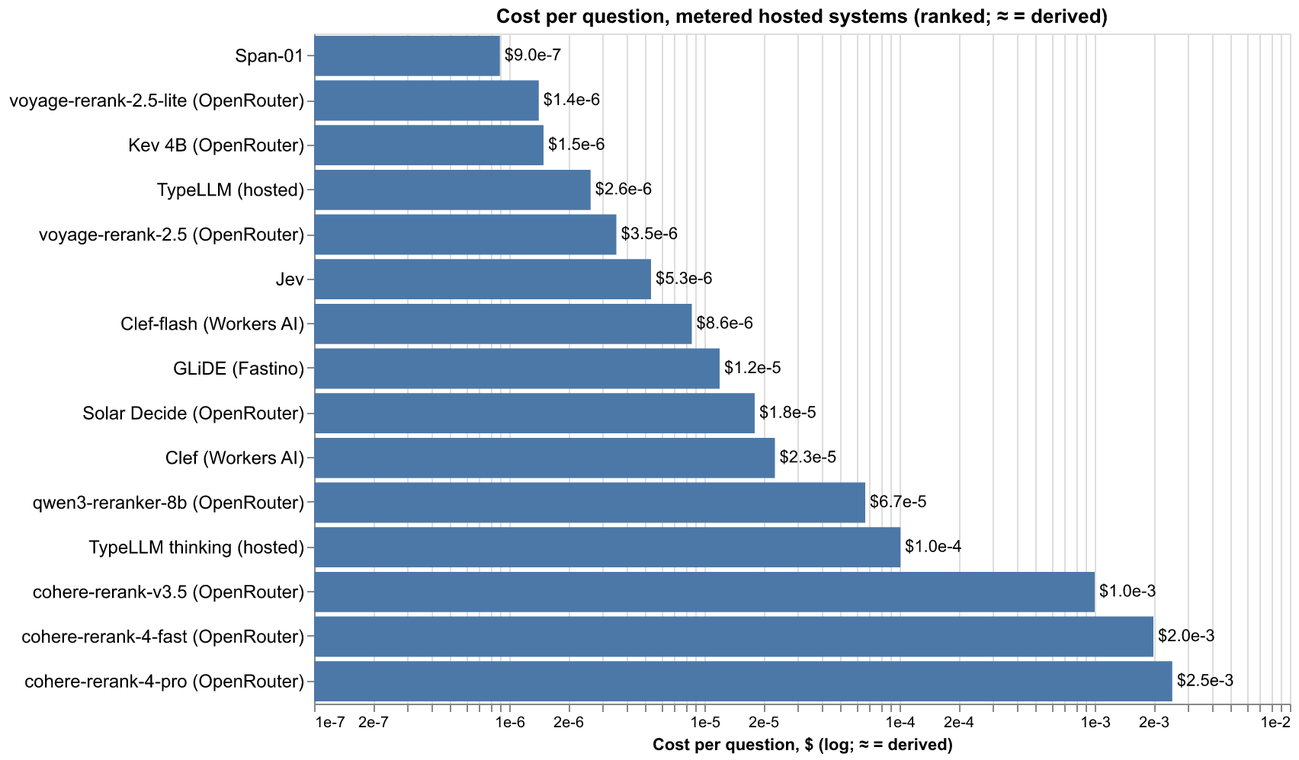
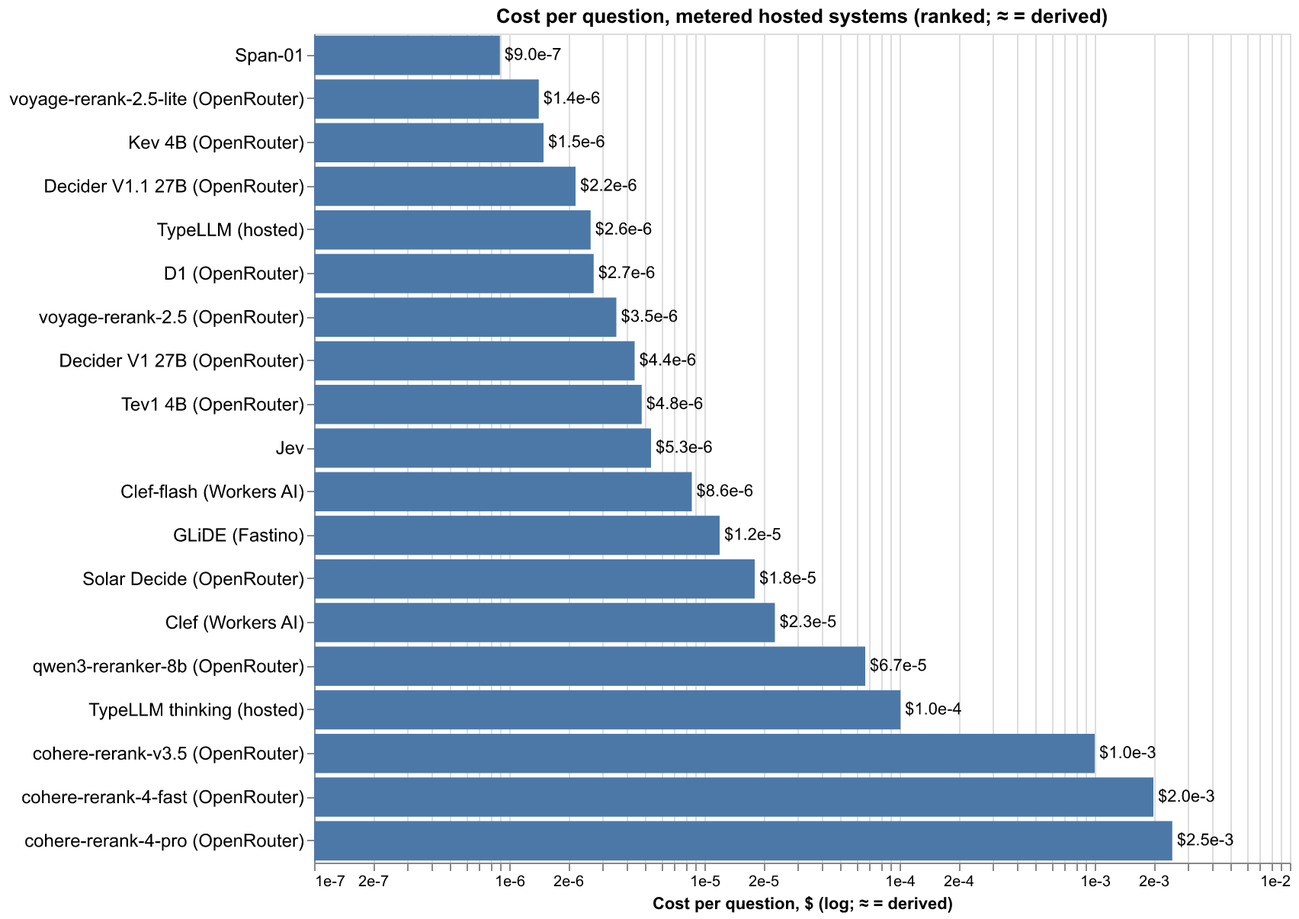
docs(readme,charts): record the Decisions family runs
Spectrum: the five arrivals land 79.2-93.8% - Decider V1/V1.1 and d1
tie cloud Jev's 93.8% with d1 the fastest hosted decision here
(0.031 s/q), Mercury free at 89.6%, Tev1's experimental next-token
SFT at 79.2%. Multilingual: all five join the 100% club on arrival.
Cost table gains five measured rows (Decider V1.1 $2.2e-6/q the
cheap paid pick of the family; Mercury $0). Dagger footnote: the
Perplexity/Together endpoints report retainsPrompts:false (no dagger)
while one of d1's providers and Mercury's :free tier retain
prompts (dagger). gpt-6-luna-decisions ($0.10/M) noted, not
benchmarked - OpenAI's endpoint retains prompts and the account's
ZDR enforcement blocks routing to it. Counts move to 68 systems /
65 benched / 38 families; feature-comparison table gains the
Decisions column; charts regenerated.

Changed region(s): [[0.0, 0.0, 0.9953, 0.994]]

diff --git a/README.md b/README.md
@@ -1,7 +1,7 @@
 # zero-shot-ie-bench
 
-Sixty-three zero-shot systems (sixty of them benchmarked) across
-thirty-four information-extraction and classification families —
+Sixty-eight zero-shot systems (sixty-five of them benchmarked) across
+thirty-eight information-extraction and classification families —
 extractor encoders, a purpose-built classifier, cross-encoder rerankers,
 and typed-decision engines (local and cloud, the hosted ones behind
 OpenRouter's decision and rerank endpoints, plus five models served by
@@ -49,12 +49,19 @@ Just here for the results? **[Skip to the benchmark charts](#benchmark-charts)**
 | [GLiDE](https://fastino.ai/) (`fastino/GLiDE` on the Fastino API) | cloud typed-decision engine (Fastino's "thinking decision model": one fast scoring pass plus adaptive reasoning when the leading option is uncertain; choice/score/noul with calibrated probabilities, 40k context, thinking tokens priced $0) | undisclosed | API metered · research tier | metered · $1.2e-5/q |
 | [TypeLLM](https://typellm.ai/) (`typellm-latest` on the TypeLLM API) | cloud type-safe generation harness (SGLang constrained decoding over a hosted Qwen3.8-27B: JSON-Schema fields answered by one-token enum picks, optional per-question thinking at its own price; vision-capable, up to 8 images per request) | 27B | Apache 2.0 (harness) · proprietary API | metered · $2.6e-6 plain / $1.0e-4 thinking /q † |
 | [Span-01](https://openrouter.ai/respan/span-01) / [Span-01 Lite](https://openrouter.ai/respan/span-01-lite) (`respan/span-01*`) | cloud behavior scorer (one noul probability per label, argmax = decision) | closed | proprietary API | metered · $9.0e-7/q · Lite free † |
+| [Decider](https://openrouter.ai/perplexity/pplx-decider-v1-27b) [V1](https://openrouter.ai/perplexity/pplx-decider-v1-27b) / [V1.1](https://openrouter.ai/perplexity/pplx-decider-v1.1-27b) 27B (`perplexity/pplx-decider-*`) | cloud decision model (Perplexity's Decisions-API entry: typed probabilistic answers — choice with per-option probabilities, noul, score rubrics — up to 128 questions per request; text/JSON state, image modality listed but not live yet) | 27B | proprietary API | metered · $4.4e-6 (V1) / $2.2e-6 (V1.1) /q |
+| [d1](https://openrouter.ai/liquid/d1) (`liquid/d1`) | cloud decision model (Liquid AI's structured decisions on the System One contract: choice/score/noul with calibrated probabilities) | undisclosed | proprietary API | metered · $2.7e-6/q † |
+| [Tev1 4B](https://openrouter.ai/togethercomputer/tev1-4b-experimental) (`togethercomputer/tev1-4b-experimental`) | cloud decision model (experimental Qwen3.5-4B SFT choosing one of 2–24 labeled options; keeps Qwen's next-token head, and OpenRouter serves it on the systemone schema anyway; the data recipe and training code are published) | 4B | proprietary API · open recipe | metered · $4.8e-6/q |
+| [Mercury Decide](https://openrouter.ai/inception/mercury-decide:free) (`inception/mercury-decide:free`) | cloud decision model (Inception's diffusion LM making typed decisions with calibrated probabilities, up to 14 decisions/s; same /v1/systemone schema as Jev) | undisclosed | proprietary API | free tier † |
 | [Qwen3-Reranker 8B](https://openrouter.ai/qwen/qwen3-reranker-8b) · [Voyage rerank-2.5](https://openrouter.ai/voyageai/rerank-2.5) (+lite) · [Nemotron Rerank VL 1B](https://openrouter.ai/nvidia/llama-nemotron-rerank-vl-1b-v2:free) · [Cohere Rerank](https://openrouter.ai/cohere/rerank-4-pro) (4 Pro / 4 Fast / v3.5), all via OpenRouter | cloud rerankers (same (instruction, label) argmax mapping as the local ones) | 8B / closed / 1.7B / closed | proprietary API | metered · $1.4e-6–$2.5e-3/q · Nemotron free † |
 
 † Non-ZDR endpoints: these providers may retain request data (OpenRouter's
 account privacy settings gate this — the account used here allows them).
 Solar Decide is the one † system with a ZDR Upstage endpoint on
 OpenRouter; the runs here used default routing, so it stays non-ZDR.
+The Decisions family splits: Perplexity's Deciders and Together's Tev1
+report `retainsPrompts: false` (no †), while one of d1's providers and
+Mercury's :free tier retain prompts, so they carry the †.
 The Clef pair runs directly on Workers AI (not via OpenRouter) under
 Cloudflare's commitment to not read, store, or train on requests, so
 it carries no † — and its weights are open, so it can also run local.
@@ -155,7 +162,7 @@ Caveats worth knowing:
   collapse Laya onto one label (58.3%); benchmarked with strings, where
   it scores 95.8%.
 
-## Mixed-pool spectrum benchmark (all 60 systems)
+## Mixed-pool spectrum benchmark (all 65 systems)
 
 `bench_spectrum.py` — the headline comparison. Every system answers the
 same **one mixed pool** of 48 classification questions (sentiment + topic,
@@ -175,6 +182,10 @@ exact span-set match (18 questions). † = hosted via OpenRouter (non-ZDR):
 | TypeLLM (hosted) † | 95.8% | 0.050 | n/a | |
 | Solar Decide (OpenRouter) † | 95.8% | 0.308 | n/a | |
 | Jev (cloud) | 93.8% | 0.018 | n/a | |
+| D1 (OpenRouter) † | 93.8% | 0.031 | n/a | |
+| Decider V1 27B (OpenRouter) | 93.8% | 0.075 | n/a | |
+| Decider V1.1 27B (OpenRouter) | 93.8% | 0.080 | n/a | |
+| Mercury Decide (OpenRouter) † | 89.6% | 0.051 | n/a | |
 | winnow e4b (Ollaya) | **87.5%** | 8.138 | n/a | |
 | qwen3-reranker-8b (OpenRouter) † | 87.5% | 0.564 | n/a | |
 | GLiNER2.5-Decide | 85.4% | 0.412 | 61% | 0.476 |
@@ -195,6 +206,7 @@ exact span-set match (18 questions). † = hosted via OpenRouter (non-ZDR):
 | JevK5-Lite | 81.2% | 0.392 | n/a | |
 | Intern-Decision 2B | 81.2% | 3.166 | n/a | |
 | GLiNER2.5-multi | 79.2% | 0.152 | **67%** | 0.180 |
+| Tev1 4B (OpenRouter) | 79.2% | 0.081 | n/a | |
 | GLiFormer-large | 79.2% | 0.412 | 61% | 0.411 |
 | von-1.0 (option-marker) | 79.2% | 0.226 | n/a | |
 | AgentJev 0.6B (local) | 79.2% | 0.646 | n/a | |
@@ -232,6 +244,21 @@ exact span-set match (18 questions). † = hosted via OpenRouter (non-ZDR):
 
 Takeaways:
 
+- **The Decisions family arrives: Decider V1/V1.1, d1 and Mercury land
+  at 89.6–93.8%, Tev1 trails at 79.2%** — OpenRouter grew a dedicated
+  "decisions" output-modality class (same `/v1/systemone` contract,
+  typed answers with calibrated probabilities, decisions themselves
+  free — only input bills). Perplexity's Decider V1/V1.1 27B and
+  Liquid's d1 tie cloud Jev at 93.8% (d1 at 0.031 s/question is the
+  fastest hosted decision here), Mercury lands 89.6% on the free
+  tier; Together's experimental Tev1 4B — a Qwen3.5-4B SFT that keeps the plain
+  next-token head — misses the boundary topics and lands with the
+  79.2% locals. Decider V1.1 is the value pick: same 5,273 input
+  tokens as V1 at half the list price ($0.02 vs $0.04/M — $2.2e-6/q,
+  the cheapest of the paid Decisions arrivals).
+  All five join the 100% multilingual club on arrival (below);
+  gpt-6-luna-decisions sits this one out (OpenAI's endpoint retains
+  prompts, blocked by the account's ZDR enforcement — noted below).
 - **TypeLLM lands 95.8% plain, 97.9% with thinking** — the type-safe
   generation harness (constrained enum answers over a hosted
   Qwen3.8-27B) joins the 97.9% lead in its thinking mode, and the two
@@ -382,12 +409,17 @@ thinking tokens) × measured tokens:
 | System | 48-q run | 54-text run | $ / question |
 |---|---|---|---|
 | Span-01 Lite † | $0 | $0 | $0 (free tier) |
+| Mercury Decide (OpenRouter) † | $0 | $0 | $0 (free tier) |
 | nemotron-rerank-vl-1b † | $0 | $0 | $0 (free tier) |
 | Span-01 † | $0.000043 | $0.000040 | $0.0000009 |
 | voyage-rerank-2.5-lite † | $0.000068 | $0.000115 | $0.0000014 |
 | Kev 4B (OpenRouter) | $0.000072 | $0.000106 | $0.0000015 |
+| Decider V1.1 27B (OpenRouter) | $0.000105 | $0.000127 | $0.0000022 |
 | TypeLLM (hosted) † | $0.00013 | $0.00017 | $0.0000026 |
+| D1 (OpenRouter) † | $0.000130 | $0.000163 | $0.0000030 |
 | voyage-rerank-2.5 † | $0.000170 | $0.000287 | $0.0000035 |
+| Decider V1 27B (OpenRouter) | $0.000211 | $0.000254 | $0.0000044 |
+| Tev1 4B (OpenRouter) | $0.000229 | $0.000269 | $0.0000050 |
 | Jev (cloud) ‡ | $0.00026 | $0.00027 | $0.0000053 |
 | Clef-flash (Workers AI) | $0.00041 | $0.00078 | $0.0000086 |
 | GLiDE (Fastino) | $0.00057 | $0.00071 | $0.0000120 |
@@ -465,7 +497,7 @@ images (regenerate with `python make_chart_images.py`):
 Popular: Spanish, French, Chinese · Medium: Vietnamese, Turkish,
 Ukrainian · Rare: **Sinhala**, Icelandic, Welsh. Sentences were verified
 by blind back-translation through an independent model instance (it
-caught 8 errors, including a sentiment-flipping Sinhala word). All 60
+caught 8 errors, including a sentiment-flipping Sinhala word). All 65
 systems answer the same 54 texts.
 
 | System | Popular | Medium | Rare | All |
@@ -478,6 +510,11 @@ systems answer the same 54 texts.
 | GLiDE (Fastino) | 100% | 100% | 100% | **100%** |
 | TypeLLM (hosted) † | 100% | 100% | 100% | **100%** |
 | TypeLLM thinking (hosted) † | 100% | 100% | 100% | **100%** |
+| Decider V1 27B (OpenRouter) | 100% | 100% | 100% | **100%** |
+| Decider V1.1 27B (OpenRouter) | 100% | 100% | 100% | **100%** |
+| D1 (OpenRouter) † | 100% | 100% | 100% | **100%** |
+| Tev1 4B (OpenRouter) | 100% | 100% | 100% | **100%** |
+| Mercury Decide (OpenRouter) † | 100% | 100% | 100% | **100%** |
 | winnow e4b (Ollaya) | 100% | 100% | 94% | 98% |
 | Span-01 † | 100% | 100% | 94% | 98% |
 | Kev 4B (OpenRouter) † | 100% | 100% | 94% | 98% |
@@ -537,6 +574,11 @@ systems answer the same 54 texts.
 
 Highlights:
 
+- **The five Decisions arrivals all join the 100% club on arrival** —
+  Decider V1/V1.1, d1, Tev1 4B and Mercury Decide are perfect on all
+  54 texts, Sinhala/Icelandic/Welsh included (0.44–0.75 s/text, one
+  request per text). The whole five-system sweep bills under $0.001
+  measured — Mercury's is $0 (free tier).
 - **TypeLLM joins the 100% club in both modes** — perfect on all 54
   texts plain (1.11 s/text) and with per-question thinking (2.07
   s/text), matching GLiDE and the Clef pair: the underlying
@@ -598,24 +640,24 @@ surprisingly well for an English-family release (81%, 100% Chinese,
 
 ## Feature comparison
 
-| Capability | GLiNER 2.5 | GLiFormer | GLiClass | Rerankers | Laya | von | so1 | Jev | Kev | AgentJev | decider | OpenThai | Verdict | JevK5-Lite | LFM2.5-RLCD | Certo | MoJev | nanodiff | NLI (Ollaya) | decision (Ollaya) | JevK5 4B (Ollaya) | winnow (Ollaya) | Lumma | Julia | Intern-Decision | K2-Type | Decision 2.0 |
-| --- | --- | --- | --- | --- | --- | --- | --- | --- | --- | --- | --- | --- | --- | --- | --- | --- | --- | --- | --- | --- | --- | --- | --- | --- | --- | --- | --- |
-| Ability group | Extractor | Extractor | Classifier | Cross-encoder rerankers (decision via argmax) | Decision engine | Decision engine | Decision engine (BYO LLM) | Decision engine (cloud) | Decision engine (local, open weights) | Decision engine (local, open weights) | Decision engine (local, open weights) | Decision engine (local, open weights) | Decision engine (local, encoder head) | Decision engine (local, label-head encoder) | Decision engine (local, constrained decoding) | Decision engine (local, per-option score head) | Decision engine (local, packed one-pass scoring) | Decision engine (local, diffusion LM) | Decision engine (local, NLI entailment) | Decision engine (local, endpoint head) | Decision engine (local, GGUF letter-logit LLM) | Decision engine (local, GGUF letter-logit LLM) | Decision engine (local, one forward over packed questions) | Decision engine (local, encoder + decision head) | Decision engine (local, masked-slot symbol logits) | Decision engine (local, pointer head over packed questions) | Decision engine (local, trained candidate head) |
-| Zero-shot NER spans | ✅ | ✅ | ❌ | ❌ | ❌ | ❌ | ❌ | ❌ | ❌ | ❌ | ❌ | ❌ | ❌ | ❌ | ❌ | ❌ | ❌ | ❌ | ❌ | ❌ | ❌ | ❌ | ❌ | ❌ | ❌ | ❌ | ❌ |
-| Text classification | ✅ | ✅ | ✅ | ✅ via argmax | ✅ choice | ✅ choice | ✅ choice | ✅ choice | ✅ choice | ✅ choice | ✅ choice | ✅ choice | ✅ choice | ✅ choice | ✅ choice | ✅ choice | ✅ choice | ✅ choice | ✅ choice | ✅ choice | ✅ choice | ✅ choice | ✅ choice | ✅ choice | ✅ choice | ✅ choice | ✅ choice |
-| All labels scored in one pass | ✅ | ✅ | ✅ (its core design) | ❌ one pair per label | ✅ | ✅ | ✅ packed | ✅ one request | ✅ one request | ✅ one request | ✅ one request | ✅ one request | ✅ per query | ✅ one pass | ✅ per field | ✅ one pass | ✅ packed | ✅ one forward | ✅ all option pairs, one batched pass | ❌ one row per question | ❌ one pass per question | ❌ one question at a time (state evaluated once per request) | ✅ (all questions one forward) | ✅ (questions independently scored in one batch) | ✅ (per text, all questions one forward — up to 16 questions/request) | ✅ (all questions one forward) | ✅ (all questions one forward) |
-| Relations | ✅ + JointIE graph | ✅ joint head | ❌ | ❌ | ❌ | ❌ | ❌ | ❌ | ❌ | ❌ | ❌ | ❌ | ❌ | ❌ | ❌ | ❌ | ❌ | ❌ | ❌ | ❌ | ❌ | ❌ | ❌ | ❌ | ❌ | ❌ | ❌ |
-| Span attributes (per-entity sentiment) | ✅ | ❌ | ❌ | ❌ | ❌ | ❌ | ❌ | ❌ | ❌ | ❌ | ❌ | ❌ | ❌ | ❌ | ❌ | ❌ | ❌ | ❌ | ❌ | ❌ | ❌ | ❌ | ❌ | ❌ | ❌ | ❌ | ❌ |
-| Structured records | ✅ flat, anchor-based | ✅ nested Pydantic | ❌ | ❌ | ❌ | ❌ | ❌ | ❌ | ❌ | ❌ | ❌ | ❌ | ❌ | ❌ | ✅ flat closed schema (3 fields + AR baseline demoed) | ❌ | ❌ | ❌ | ❌ | ❌ | ❌ | ❌ | ❌ | ❌ | ❌ | ❌ | ❌ |
-| Ordinal score rubrics | ✅ via Decide (demoed) | ❌ | ❌ | ❌ | ✅ score | ✅ rate (demoed) | ✅ scale (demoed) | ✅ score (demoed) | ✅ score (demoed) | ✅ score (demoed) | ✅ score (demoed) | ✅ score (demoed) | ✅ score (demoed) | ❌ (lite is classification-only) | ✅ enum rubric (demoed) | ❌ | ✅ score (demoed) | ❌ | ✅ score (demoed) | ✅ score (demoed) | ✅ score (demoed) | ✅ score (demoed) | ✅ score | ✅ score | ✅ score | ✅ score | ✅ score |
-| Yes/no judgments | ❌ | ❌ | ❌ | ❌ | ✅ noul | ✅ judge (demoed) | ✅ yes_no (demoed) | ✅ noul (demoed) | ✅ noul (demoed) | ✅ boolean (demoed) | ✅ noul (demoed) | ✅ noul (demoed) | ✅ noul (demoed) | ❌ | ✅ boolean (demoed) | ❌ | ✅ noul (demoed) | ❌ | ✅ noul | ✅ noul | ✅ (true/false read as A/B) | ✅ (labels read as letters) | ✅ noul | ✅ noul | ✅ noul | ✅ noul | ✅ noul |
-| Text embeddings | ❌ | ✅ 1024-d | ❌ (reranker-capable) | ❌ (cross-encoders only) | ❌ | ❌ | ❌ | ❌ | ❌ | ❌ | ❌ | ❌ | ❌ | ❌ | ❌ | ❌ | ❌ | ❌ | ❌ | ❌ | ❌ | ❌ | ❌ | ❌ | ❌ | ❌ | ❌ |
-| Multilingual | ✅ multi ckpt (89% over 9 langs here) | ❌ English (63%) | ✅ large 81% over 9 langs | bge-v2-m3 67% over 9 langs; mxbai 48% / GTE 44% | ✅ Router, 100+ langs (76%) | option-marker: 48% over 9 langs | = base LLM's languages (37%) | ✅ 100% incl. Sinhala | ✅ 78% over 9 langs | 63% over 9 langs | 83% over 9 langs | 83% over 9 langs | 22% over 9 langs | ✅ 78% over 9 langs | 52% over 9 langs | 30% over 9 langs | ✅ 83% over 9 langs | 35% over 9 langs | deberta 69% / modernbert 46% over 9 langs | ✅ 89% over 9 langs (best local tie) | ✅ 100% incl. Sinhala (only local 100%) | ✅ 98% over 9 langs (100% Sinhala) | ✅ 96% over 9 langs (4B; small ckpts 35–37%, English-centric) | 52% over 9 langs, rare-tier 56% (mmBERT) | ✅ 98% over 9 langs (4B; 0.8B 89%, 2B 91%) | ✅ 83% over 9 langs (rare-tier 56%) | 74–83% over 9 langs by size (Sol 83%); rare tier 44–61% |
-| Runs offline / data local | ✅ | ✅ | ✅ | ✅ | ✅ | ✅ | ✅ | ❌ | ✅ | ✅ | ✅ | ✅ | ✅ | ✅ | ✅ | ✅ | ✅ | ✅ | ✅ | ✅ | ✅ | ✅ | ✅ | ✅ | ✅ | ✅ | ✅ |
-| Image input | ❌ | ❌ | ❌ | hosted Nemotron VL only (image documents, `demos/nemotron_vl_demo.py`); local trio + Cohere/Voyage are text-only | ❌ | ❌ | ❌ | ❌ | ❌ | ❌ | ❌ | ❌ | ❌ | ❌ | ❌ | ❌ | ❌ | ❌ | ❌ | ❌ | ❌ | ❌ | ❌ | ❌ | ✅ (vision tower + projector ship in every snapshot; 1–8 images per request, same one forward — `demos/intern_decision_image_demo.py`) | ❌ | ❌ |
-| Cost | free | free | free | free | free | free | free | $0.042/1M input | free (CPU time) | free (CPU time) | free (CPU time) | free (CPU time) | free (CPU time) | free (CPU time) | free (CPU time) | free (CPU time) | free (CPU time) | free (CPU time) | free (CPU time) | free (CPU time) | free (CPU time) | free (CPU time) | free (CPU time) | free (CPU time) | free (CPU time) | free (CPU time) | free (CPU time) |
-| License | Apache 2.0 | Apache 2.0 | Apache 2.0 | Apache 2.0 | Apache 2.0 | Apache 2.0 | MIT (lib) | proprietary API | Apache 2.0 | Apache 2.0 | Apache 2.0 | Apache 2.0 (package); weights gated | Apache 2.0 | Apache 2.0 | MIT (engine); LFM Open License v1.0 (weights) | MIT (engine + weights) | MIT (engine; Qwen base-model license on encoder weights) | MIT | MIT (deberta card notes non-commercial training-data parts); Apache 2.0 (modernbert) | Apache 2.0 | Apache 2.0 (NOTICE: some training questions written by an OpenAI model) | Apache 2.0 | Apache 2.0 | Apache 2.0 | Apache 2.0 (Qwen3.5 upstream weights also Apache 2.0) | Apache 2.0 | Apache 2.0 |
-| Batch shape | per text | per text (batch_size) | per text, all labels | per text, one pair per label | all questions, one pass | per text | one packed prompt | all questions, one request | all questions, one request | all questions, one request | all questions, one request | all questions, one request | per text, all options | per text, all heads + labels | per text, all field candidates | per text, all option descriptions | per text, all packed candidates | per text, one masked forward | per text, one pair per option | per text, one row per question | per text, one request per question | per text, one request per question | per text, all questions one forward | per text, all questions one batch | per text, all questions one forward | per text, all questions one forward | per text, all questions one forward |
+| Capability | GLiNER 2.5 | GLiFormer | GLiClass | Rerankers | Laya | von | so1 | Jev | Kev | AgentJev | decider | OpenThai | Verdict | JevK5-Lite | LFM2.5-RLCD | Certo | MoJev | nanodiff | NLI (Ollaya) | decision (Ollaya) | JevK5 4B (Ollaya) | winnow (Ollaya) | Lumma | Julia | Intern-Decision | K2-Type | Decision 2.0 Decisions (OpenRouter) |
+| --- | --- | --- | --- | --- | --- | --- | --- | --- | --- | --- | --- | --- | --- | --- | --- | --- | --- | --- | --- | --- | --- | --- | --- | --- | --- | --- | ---  |
+| Ability group | Extractor | Extractor | Classifier | Cross-encoder rerankers (decision via argmax) | Decision engine | Decision engine | Decision engine (BYO LLM) | Decision engine (cloud) | Decision engine (local, open weights) | Decision engine (local, open weights) | Decision engine (local, open weights) | Decision engine (local, open weights) | Decision engine (local, encoder head) | Decision engine (local, label-head encoder) | Decision engine (local, constrained decoding) | Decision engine (local, per-option score head) | Decision engine (local, packed one-pass scoring) | Decision engine (local, diffusion LM) | Decision engine (local, NLI entailment) | Decision engine (local, endpoint head) | Decision engine (local, GGUF letter-logit LLM) | Decision engine (local, GGUF letter-logit LLM) | Decision engine (local, one forward over packed questions) | Decision engine (local, encoder + decision head) | Decision engine (local, masked-slot symbol logits) | Decision engine (local, pointer head over packed questions) | Decision engine (local, trained candidate head) Decision engines (cloud — OpenRouter's Decisions API: Perplexity Decider V1/V1.1, Liquid d1, Together Tev1, Inception Mercury) |
+| Zero-shot NER spans | ✅ | ✅ | ❌ | ❌ | ❌ | ❌ | ❌ | ❌ | ❌ | ❌ | ❌ | ❌ | ❌ | ❌ | ❌ | ❌ | ❌ | ❌ | ❌ | ❌ | ❌ | ❌ | ❌ | ❌ | ❌ | ❌ | ❌ ❌ |
+| Text classification | ✅ | ✅ | ✅ | ✅ via argmax | ✅ choice | ✅ choice | ✅ choice | ✅ choice | ✅ choice | ✅ choice | ✅ choice | ✅ choice | ✅ choice | ✅ choice | ✅ choice | ✅ choice | ✅ choice | ✅ choice | ✅ choice | ✅ choice | ✅ choice | ✅ choice | ✅ choice | ✅ choice | ✅ choice | ✅ choice | ✅ choice ✅ choice |
+| All labels scored in one pass | ✅ | ✅ | ✅ (its core design) | ❌ one pair per label | ✅ | ✅ | ✅ packed | ✅ one request | ✅ one request | ✅ one request | ✅ one request | ✅ one request | ✅ per query | ✅ one pass | ✅ per field | ✅ one pass | ✅ packed | ✅ one forward | ✅ all option pairs, one batched pass | ❌ one row per question | ❌ one pass per question | ❌ one question at a time (state evaluated once per request) | ✅ (all questions one forward) | ✅ (questions independently scored in one batch) | ✅ (per text, all questions one forward — up to 16 questions/request) | ✅ (all questions one forward) | ✅ (all questions one forward) ✅ one request (up to 128 questions) |
+| Relations | ✅ + JointIE graph | ✅ joint head | ❌ | ❌ | ❌ | ❌ | ❌ | ❌ | ❌ | ❌ | ❌ | ❌ | ❌ | ❌ | ❌ | ❌ | ❌ | ❌ | ❌ | ❌ | ❌ | ❌ | ❌ | ❌ | ❌ | ❌ | ❌ ❌ |
+| Span attributes (per-entity sentiment) | ✅ | ❌ | ❌ | ❌ | ❌ | ❌ | ❌ | ❌ | ❌ | ❌ | ❌ | ❌ | ❌ | ❌ | ❌ | ❌ | ❌ | ❌ | ❌ | ❌ | ❌ | ❌ | ❌ | ❌ | ❌ | ❌ | ❌ ❌ |
+| Structured records | ✅ flat, anchor-based | ✅ nested Pydantic | ❌ | ❌ | ❌ | ❌ | ❌ | ❌ | ❌ | ❌ | ❌ | ❌ | ❌ | ❌ | ✅ flat closed schema (3 fields + AR baseline demoed) | ❌ | ❌ | ❌ | ❌ | ❌ | ❌ | ❌ | ❌ | ❌ | ❌ | ❌ | ❌ ❌ |
+| Ordinal score rubrics | ✅ via Decide (demoed) | ❌ | ❌ | ❌ | ✅ score | ✅ rate (demoed) | ✅ scale (demoed) | ✅ score (demoed) | ✅ score (demoed) | ✅ score (demoed) | ✅ score (demoed) | ✅ score (demoed) | ✅ score (demoed) | ❌ (lite is classification-only) | ✅ enum rubric (demoed) | ❌ | ✅ score (demoed) | ❌ | ✅ score (demoed) | ✅ score (demoed) | ✅ score (demoed) | ✅ score (demoed) | ✅ score | ✅ score | ✅ score | ✅ score | ✅ score ✅ score |
+| Yes/no judgments | ❌ | ❌ | ❌ | ❌ | ✅ noul | ✅ judge (demoed) | ✅ yes_no (demoed) | ✅ noul (demoed) | ✅ noul (demoed) | ✅ boolean (demoed) | ✅ noul (demoed) | ✅ noul (demoed) | ✅ noul (demoed) | ❌ | ✅ boolean (demoed) | ❌ | ✅ noul (demoed) | ❌ | ✅ noul | ✅ noul | ✅ (true/false read as A/B) | ✅ (labels read as letters) | ✅ noul | ✅ noul | ✅ noul | ✅ noul | ✅ noul ✅ noul |
+| Text embeddings | ❌ | ✅ 1024-d | ❌ (reranker-capable) | ❌ (cross-encoders only) | ❌ | ❌ | ❌ | ❌ | ❌ | ❌ | ❌ | ❌ | ❌ | ❌ | ❌ | ❌ | ❌ | ❌ | ❌ | ❌ | ❌ | ❌ | ❌ | ❌ | ❌ | ❌ | ❌ ❌ |
+| Multilingual | ✅ multi ckpt (89% over 9 langs here) | ❌ English (63%) | ✅ large 81% over 9 langs | bge-v2-m3 67% over 9 langs; mxbai 48% / GTE 44% | ✅ Router, 100+ langs (76%) | option-marker: 48% over 9 langs | = base LLM's languages (37%) | ✅ 100% incl. Sinhala | ✅ 78% over 9 langs | 63% over 9 langs | 83% over 9 langs | 83% over 9 langs | 22% over 9 langs | ✅ 78% over 9 langs | 52% over 9 langs | 30% over 9 langs | ✅ 83% over 9 langs | 35% over 9 langs | deberta 69% / modernbert 46% over 9 langs | ✅ 89% over 9 langs (best local tie) | ✅ 100% incl. Sinhala (only local 100%) | ✅ 98% over 9 langs (100% Sinhala) | ✅ 96% over 9 langs (4B; small ckpts 35–37%, English-centric) | 52% over 9 langs, rare-tier 56% (mmBERT) | ✅ 98% over 9 langs (4B; 0.8B 89%, 2B 91%) | ✅ 83% over 9 langs (rare-tier 56%) | 74–83% over 9 langs by size (Sol 83%); rare tier 44–61% ✅ 100% over 9 langs (all five) |
+| Runs offline / data local | ✅ | ✅ | ✅ | ✅ | ✅ | ✅ | ✅ | ❌ | ✅ | ✅ | ✅ | ✅ | ✅ | ✅ | ✅ | ✅ | ✅ | ✅ | ✅ | ✅ | ✅ | ✅ | ✅ | ✅ | ✅ | ✅ | ✅ ❌ |
+| Image input | ❌ | ❌ | ❌ | hosted Nemotron VL only (image documents, `demos/nemotron_vl_demo.py`); local trio + Cohere/Voyage are text-only | ❌ | ❌ | ❌ | ❌ | ❌ | ❌ | ❌ | ❌ | ❌ | ❌ | ❌ | ❌ | ❌ | ❌ | ❌ | ❌ | ❌ | ❌ | ❌ | ❌ | ✅ (vision tower + projector ship in every snapshot; 1–8 images per request, same one forward — `demos/intern_decision_image_demo.py`) | ❌ | ❌ ❌ (Decider lists image modality; text/JSON state only so far) |
+| Cost | free | free | free | free | free | free | free | $0.042/1M input | free (CPU time) | free (CPU time) | free (CPU time) | free (CPU time) | free (CPU time) | free (CPU time) | free (CPU time) | free (CPU time) | free (CPU time) | free (CPU time) | free (CPU time) | free (CPU time) | free (CPU time) | free (CPU time) | free (CPU time) | free (CPU time) | free (CPU time) | free (CPU time) | free (CPU time) $0.02–$0.042/1M input, decisions free; Mercury on the :free tier |
+| License | Apache 2.0 | Apache 2.0 | Apache 2.0 | Apache 2.0 | Apache 2.0 | Apache 2.0 | MIT (lib) | proprietary API | Apache 2.0 | Apache 2.0 | Apache 2.0 | Apache 2.0 (package); weights gated | Apache 2.0 | Apache 2.0 | MIT (engine); LFM Open License v1.0 (weights) | MIT (engine + weights) | MIT (engine; Qwen base-model license on encoder weights) | MIT | MIT (deberta card notes non-commercial training-data parts); Apache 2.0 (modernbert) | Apache 2.0 | Apache 2.0 (NOTICE: some training questions written by an OpenAI model) | Apache 2.0 | Apache 2.0 | Apache 2.0 | Apache 2.0 (Qwen3.5 upstream weights also Apache 2.0) | Apache 2.0 | Apache 2.0 proprietary API (Tev1's data recipe + training code are open) |
+| Batch shape | per text | per text (batch_size) | per text, all labels | per text, one pair per label | all questions, one pass | per text | one packed prompt | all questions, one request | all questions, one request | all questions, one request | all questions, one request | all questions, one request | per text, all options | per text, all heads + labels | per text, all field candidates | per text, all option descriptions | per text, all packed candidates | per text, one masked forward | per text, one pair per option | per text, one row per question | per text, one request per question | per text, one request per question | per text, all questions one forward | per text, all questions one batch | per text, all questions one forward | per text, all questions one forward | per text, all questions one forward all questions, one request (spectrum batches 24) |
 
 ## Setup
 
@@ -877,7 +919,7 @@ C:/venvs/agent-jev/Scripts/python demos/verdict_demo.py
                                          # (--repeats N) → results/bench_results.json
 .venv/Scripts/python bench_spectrum.py --system <name>   # one mixed pool per
                                          # system → results/bench_spectrum_results.json
-                                         # (60 systems; von, JevK5-Lite,
+                                         # (65 systems; von, JevK5-Lite,
                                          # LFM2.5-RLCD 350M, MoJev 0.85B,
                                          # Lumma-Fev, Julia 1,
                                          # Intern-Decision, K2-Type and
@@ -888,7 +930,7 @@ C:/venvs/agent-jev/Scripts/python demos/verdict_demo.py
 # imports rlcd in-process and needs the transformers-5 agent-jev interpreter:
 C:/venvs/agent-jev/Scripts/python bench_spectrum.py --system "Verdict 151M (local)"
 .venv/Scripts/python bench_multilingual.py --system <name>
-                                         # 9 languages, all 60 systems →
+                                         # 9 languages, all 65 systems →
                                          # results/bench_multilingual_results.json
                                          # (same interpreter rules)
 .venv-von/Scripts/python bench_multilingual.py --system "Lumma-fev 0.15B"
@@ -1042,6 +1084,12 @@ Blocked by hardware or runtime:
 | `fastino/gliner2-{base,large,multi}-v1` | older span-architecture GLiNER 2 line, different loader |
 | `gliner-community/gliner_*-v2.5` | classic `gliner` line (LUKE-descended); a one-off CPU trial of `gliner_large-v2.5` scored 56.2% classification / 67% NER at ~0.4 s/question — dominated by GLiNER2.5-base, so not added |
 
+Blocked by the account's data policy:
+
+| System | Why not run here |
+|---|---|
+| `openai/gpt-6-luna-decisions` | GPT-6 Luna behind OpenAI's Decisions API entry on OpenRouter ($0.10/M input, decisions free, 1.05M context) — its only endpoint reports `retainsPrompts: true`, and this account enforces ZDR, so OpenRouter refuses to route to it; running it would mean weakening the account's privacy settings |
+
 Not a typed-decision engine, so out of scope for the Jev-activity
 comparison (the one other model on Ollaya's list we checked):
 [qwen3guard](https://ollaya.dev/library/qwen3guard) is a safety guard —
@@ -1127,7 +1175,7 @@ LFM2.5-RLCD 350M, nanodiff 350M); the rest:
 | `bench.py` | flat-suite benchmark driver (classification + NER, 5× determinism) |
 | `bench_spectrum.py` | the headline mixed-pool benchmark, one run per `--system` |
 | `bench_graded.py` | question pools for the mixed-pool benchmark (source for `bench_spectrum.py`) |
-| `bench_multilingual.py` | 9-language zero-shot suite, all 60 systems (Sinhala/Icelandic/Welsh in the rare tier) |
+| `bench_multilingual.py` | 9-language zero-shot suite, all 65 systems (Sinhala/Icelandic/Welsh in the rare tier) |
 | `make_chart_images.py` | renders the benchmark charts to `docs/charts/*.png` for this README |
 | `results/bench_*_results.json` | latest results, rendered by the web UI |
 
